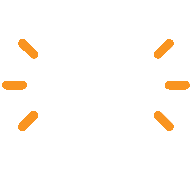
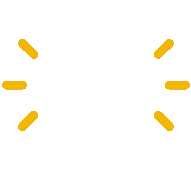
Mudando a Identidade visual

diff --git a/projeto-eletrica/style/style.css b/projeto-eletrica/style/style.css
@@ -1,7 +1,7 @@
 /*Configurações gerais*/
 html,body{
     font-family: "Roboto", sans-serif;
-    background-color: #0b1e30;
+    background-color: #023059;
     color: #fff;
 
     margin: 0px;
@@ -29,7 +29,7 @@ html,body{
     align-items: center;
     font-weight: bolder;
     font-size: 1.5rem;
-    color: #1b3c5b;
+    color: #023059;
     text-decoration: none;
 }
 
@@ -43,7 +43,7 @@ html,body{
 
 .btn-menu span{
     font-size: 2.5rem;
-    color: #1b3c5b;
+    color: #023059;
     font-weight: bold;
 }
 
@@ -68,7 +68,10 @@ html,body{
     position: relative;
     max-width: 500px;
     margin: auto;
+    padding-left: 10px;
     text-align: left;
+    color: #fff;
+    text-shadow: 4px 4px 4px rgba(0, 0, 0, 0.5);
 }
 
 .banner-content h1{
@@ -78,10 +81,11 @@ html,body{
 
 .banner-content p{
     font-size: 1.2rem;
+    margin-bottom: 50px;
 }
 
 .banner-btn{
-    background-color: #f99420;
+    background-color: #F2B705;
     color: #fff;
     text-decoration: none;
     padding: 15px;
@@ -125,15 +129,18 @@ html,body{
 .box{
     display: flex;
     align-items: center;
-    background-color: #1b3c5b;
+    background-color: #023059;
     padding: 20px 20px 20px 0px;
     border-radius: 5px;
     box-shadow: 0px 10px 10px rgba(0, 0, 0, 0.5);
+    color: #F2B705;
+    border: 2px solid #F2B705;
 }
 
 .box:hover{
-    background-color: #0b1e30;
-    border: 2px solid #1b3c5b;
+    background-color: #fff;
+    color: #023059;
+    border: none;
     transition: .1s;
 }
 
@@ -141,7 +148,7 @@ html,body{
     width: 50px;
     height: 0px;
     border-right: 50px solid transparent;
-    border-top: 70px solid #f99420;
+    border-top: 70px solid #F2B705;
 }
 
 .box-content{

diff --git a/projeto-eletrica/index.html b/projeto-eletrica/index.html
@@ -11,14 +11,14 @@
 
     <link rel="stylesheet" href="style/style.css">
 
-    <title>Nome Aqui</title>
+    <title>META - Eletricidade e Automação</title>
 
 </head>
 <body>
     <header class="main-header">
         <nav class="menu-header">
             <a href="#" class="logo-menu">
-                <img src="images/logo.png" alt="logo">NOME
+                <img src="images/logo.png" alt="logo">META
             </a>
             <div class="btn-menu">
                 <span class="material-symbols-outlined">menu</span>
